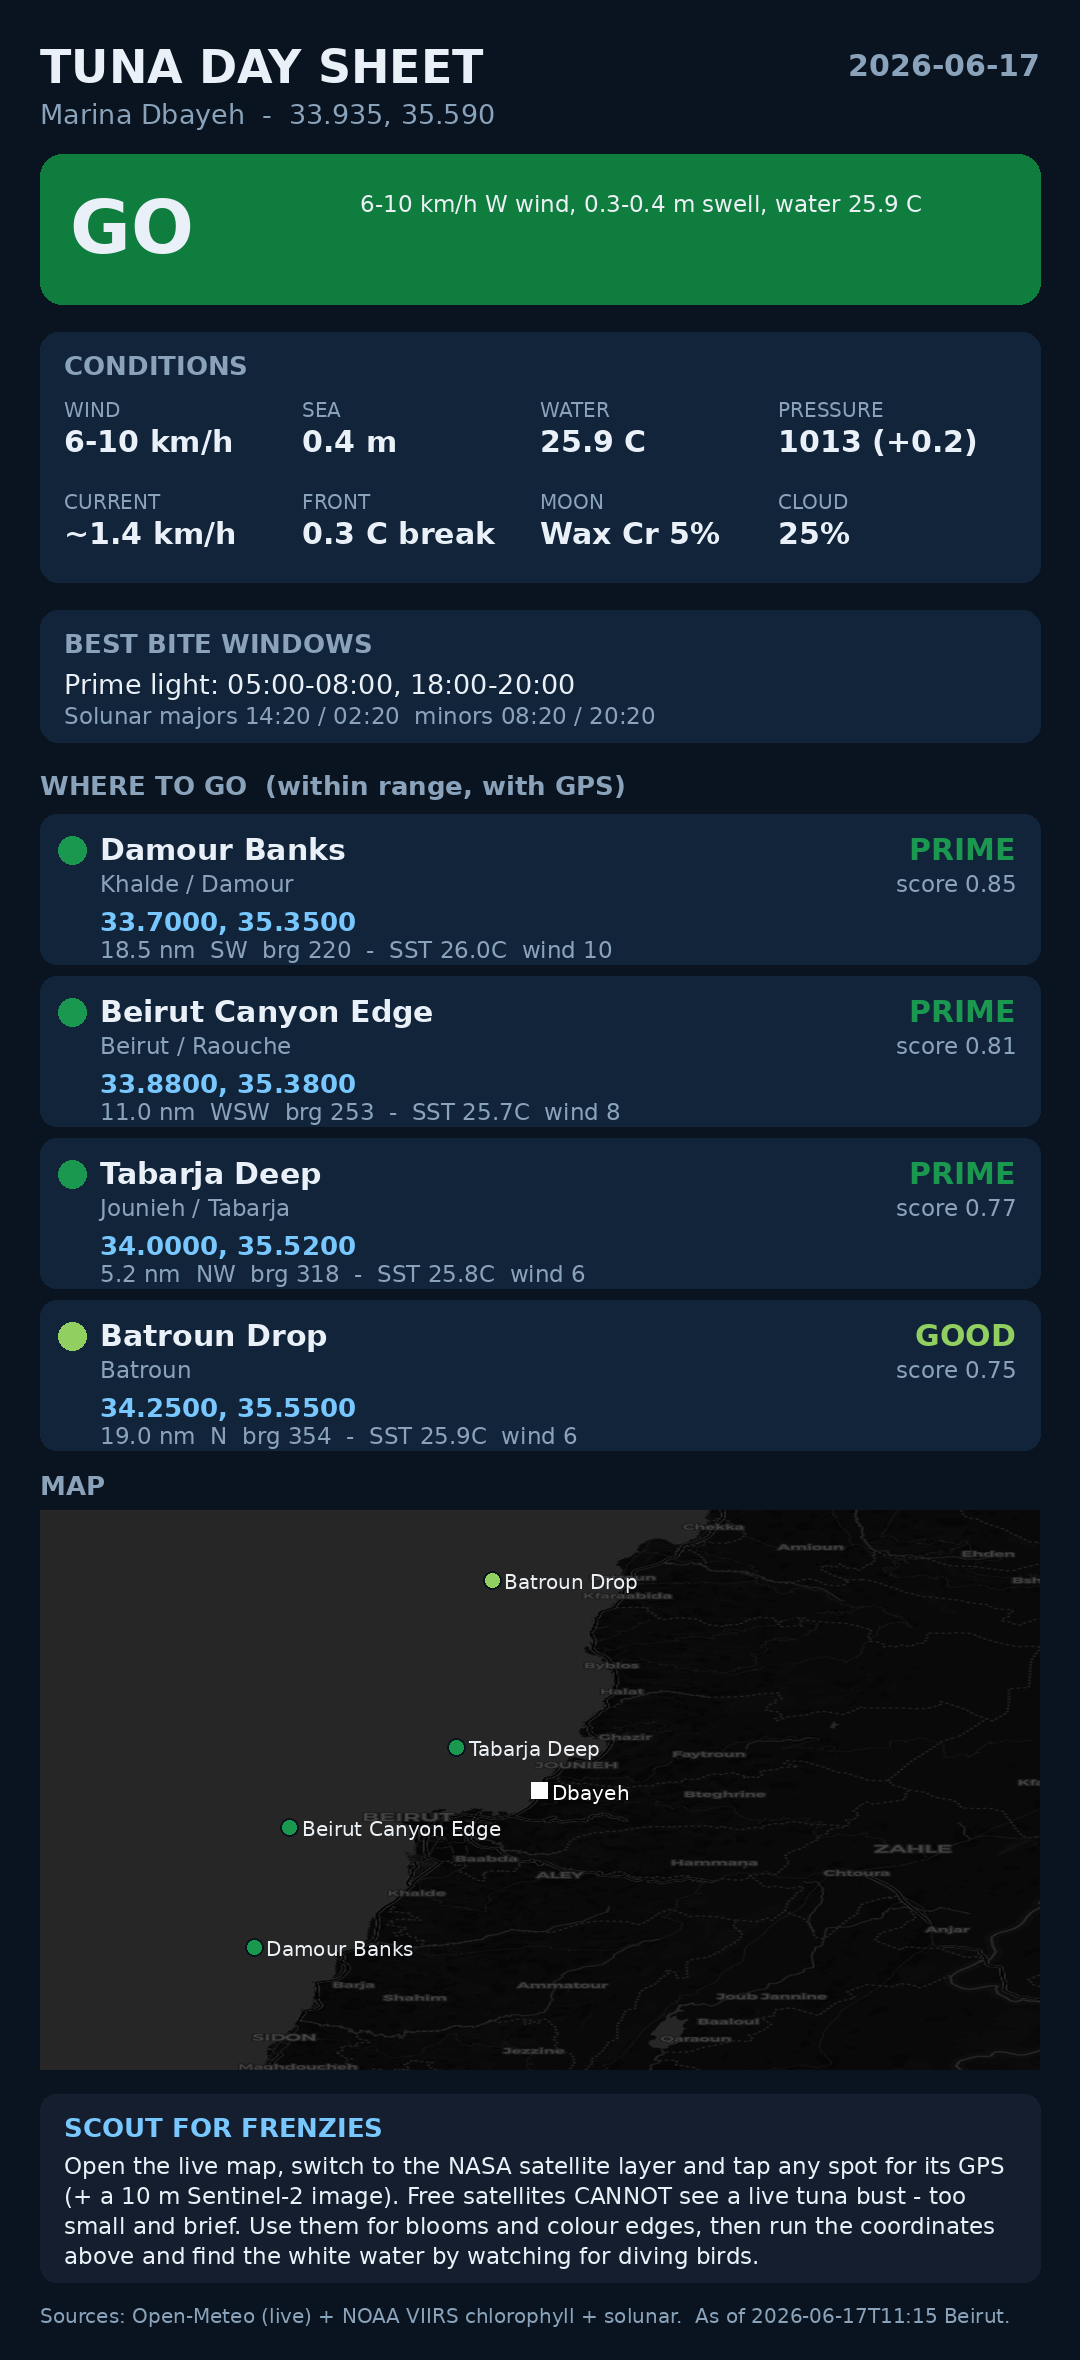
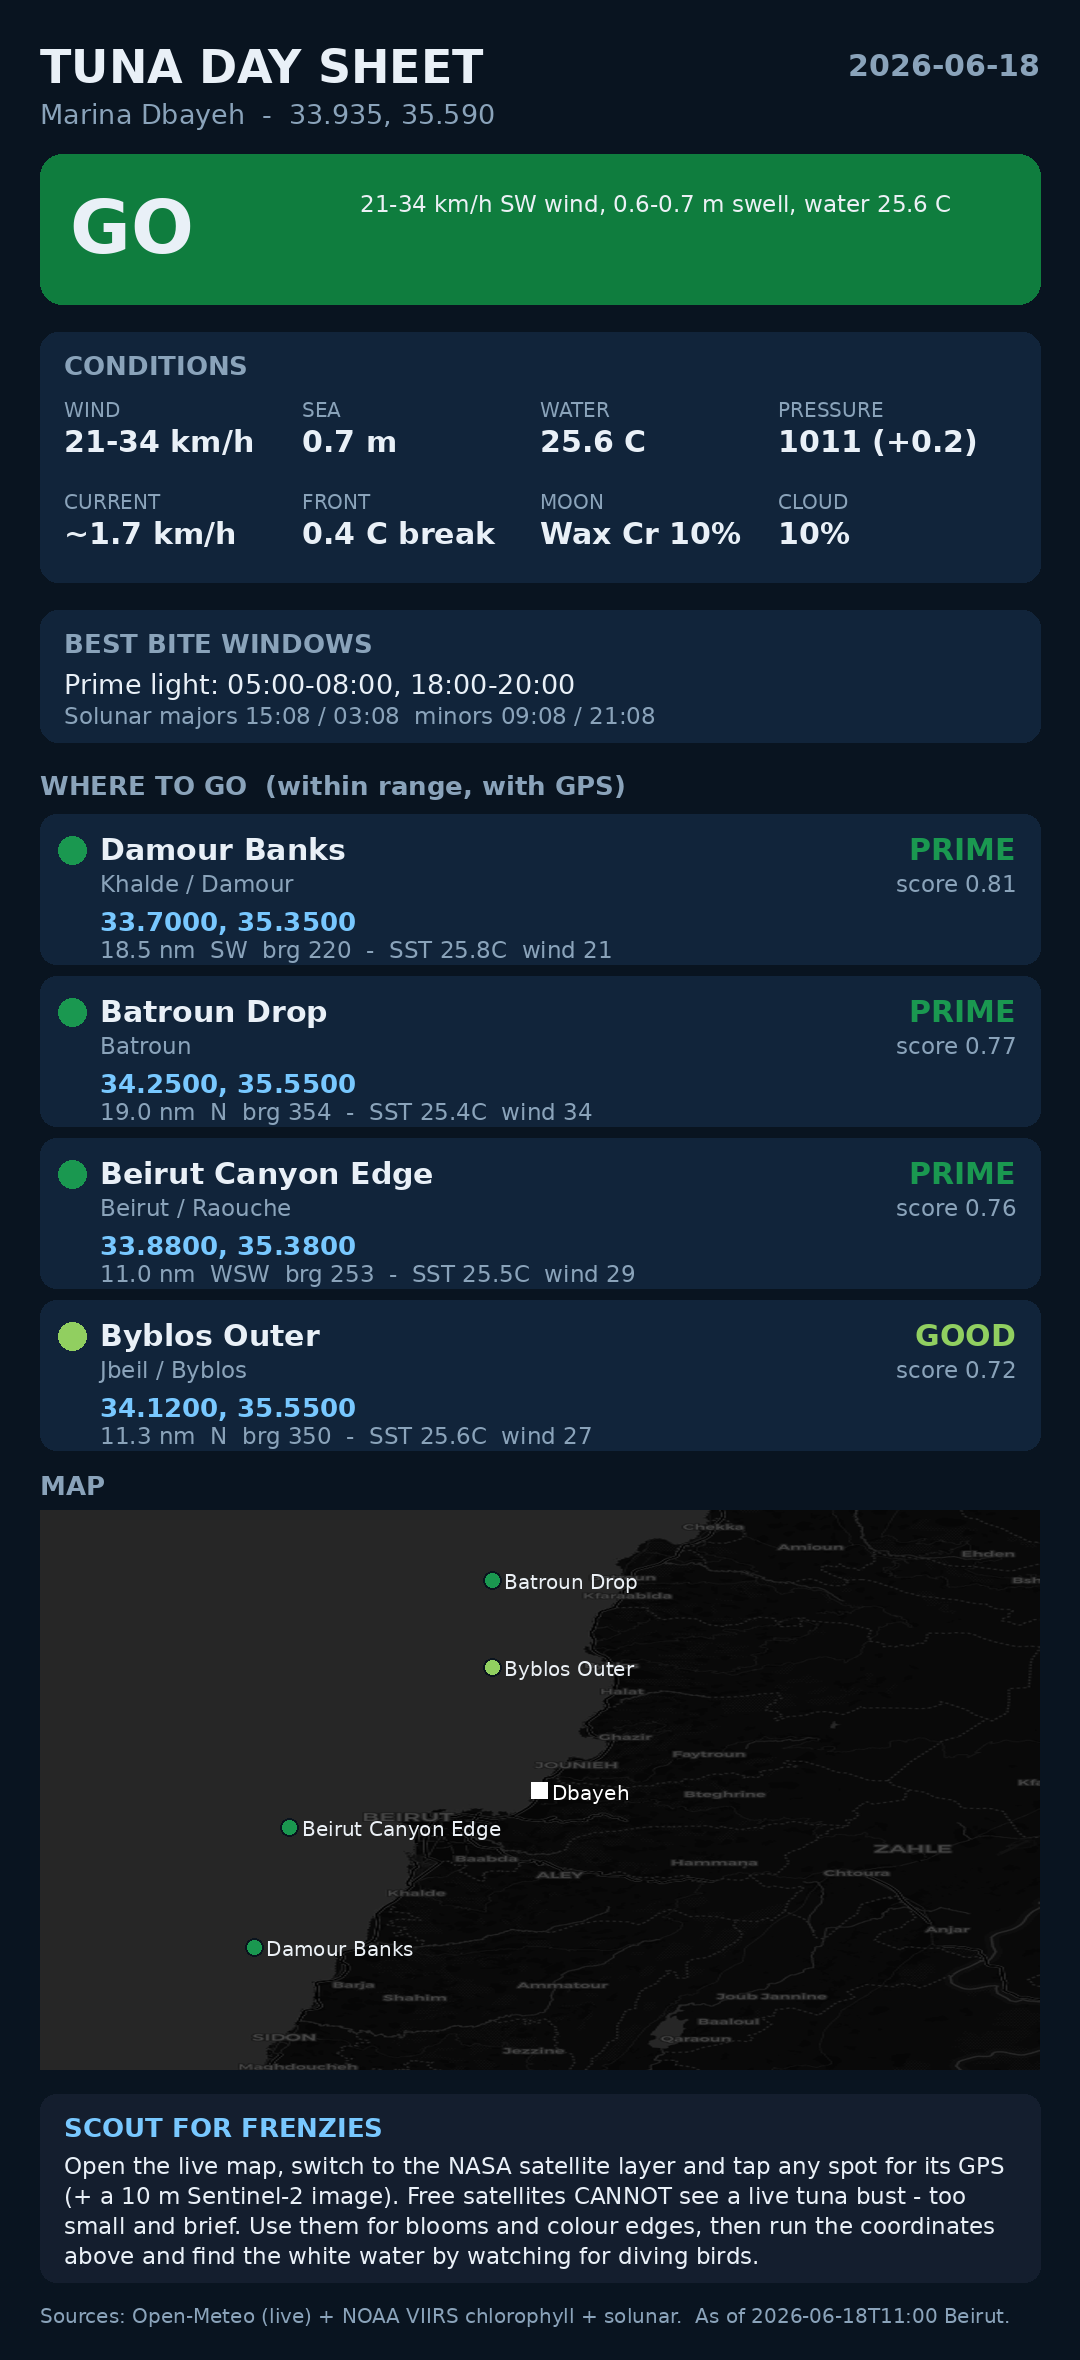
chore: daily tuna report + day image

diff --git a/docs/today.md b/docs/today.md
@@ -1,28 +1,28 @@
-# Tuna day sheet - 2026-06-17T11:15 (Asia/Beirut)
+# Tuna day sheet - 2026-06-18T11:00 (Asia/Beirut)
 
 **From Marina Baye, Dbayeh** (33.935, 35.590, range 40 km)
 
-## VERDICT: GO - 6-10 km/h W wind, 0.3-0.4 m swell, water 25.9 C
+## VERDICT: GO - 21-34 km/h SW wind, 0.6-0.7 m swell, water 25.6 C
 
 | Ocean | |
 |---|---|
-| Sea temp | 25.7 C-26.0 C (avg 25.9) |
-| Swell | 0.3 m-0.4 m |
-| Wind | 5.5 km/h-10.0 km/h W |
-| Pressure | 1013.2 hPa, steady (+0.2/3h) |
-| Current | ~1.4 km/h |
-| Moon | Waxing Crescent, 5% |
-| Solunar majors | 14:20 / 02:20 (approx) |
+| Sea temp | 25.4 C-25.8 C (avg 25.6) |
+| Swell | 0.6 m-0.7 m |
+| Wind | 21.0 km/h-34.5 km/h SW |
+| Pressure | 1010.7 hPa, steady (+0.2/3h) |
+| Current | ~1.7 km/h |
+| Moon | Waxing Crescent, 10% |
+| Solunar majors | 15:08 / 03:08 (approx) |
 
 ## Where to go (within range, best first)
 
 | # | Rating | Score | Dist | Head | SST | Wind | Spot | Coordinates |
 |--:|:--|--:|--:|:--|--:|--:|:--|:--|
-| 1 | PRIME | 0.85 | 18.5 nm | SW | 26.0 C | 10.0 km/h | Damour Banks (Khalde / Damour) | 33.700, 35.350 |
-| 2 | PRIME | 0.81 | 11.0 nm | WSW | 25.7 C | 7.9 km/h | Beirut Canyon Edge (Beirut / Raouche) | 33.880, 35.380 |
-| 3 | PRIME | 0.77 | 5.2 nm | NW | 25.8 C | 5.9 km/h | Tabarja Deep (Jounieh / Tabarja) | 34.000, 35.520 |
-| 4 | GOOD | 0.75 | 19.0 nm | N | 25.9 C | 5.5 km/h | Batroun Drop (Batroun) | 34.250, 35.550 |
-| 5 | GOOD | 0.75 | 11.3 nm | N | 25.9 C | 6.1 km/h | Byblos Outer (Jbeil / Byblos) | 34.120, 35.550 |
+| 1 | PRIME | 0.81 | 18.5 nm | SW | 25.8 C | 21.0 km/h | Damour Banks (Khalde / Damour) | 33.700, 35.350 |
+| 2 | PRIME | 0.77 | 19.0 nm | N | 25.4 C | 34.5 km/h | Batroun Drop (Batroun) | 34.250, 35.550 |
+| 3 | PRIME | 0.76 | 11.0 nm | WSW | 25.5 C | 29.3 km/h | Beirut Canyon Edge (Beirut / Raouche) | 33.880, 35.380 |
+| 4 | GOOD | 0.72 | 11.3 nm | N | 25.6 C | 27.4 km/h | Byblos Outer (Jbeil / Byblos) | 34.120, 35.550 |
+| 5 | GOOD | 0.72 | 5.2 nm | NW | 25.6 C | 29.1 km/h | Tabarja Deep (Jounieh / Tabarja) | 34.000, 35.520 |
 
 **Best bet:** Damour Banks - 18.5 nm bearing 220 (SW). Fish the outflow plume edge; better on a light onshore drift.
 